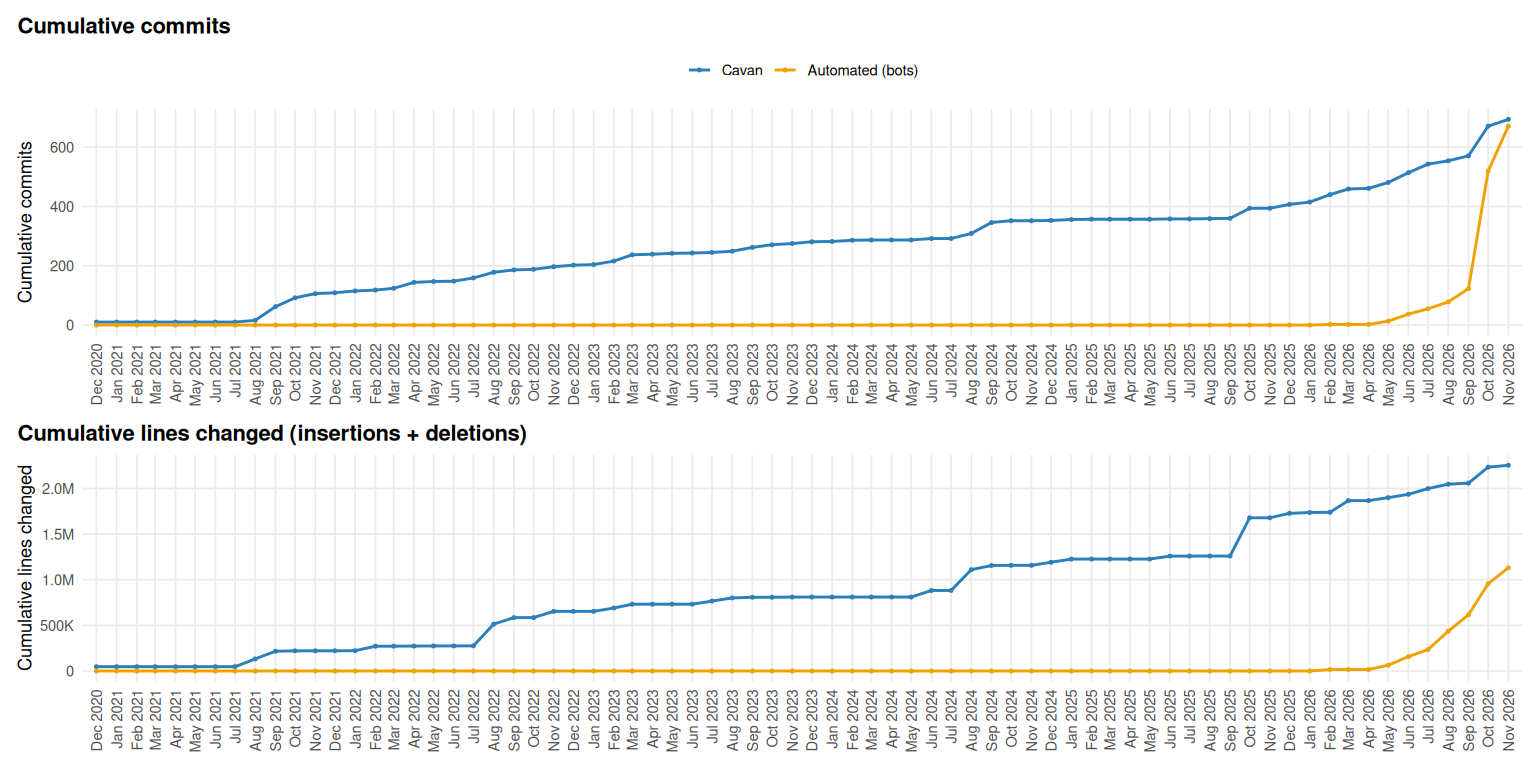
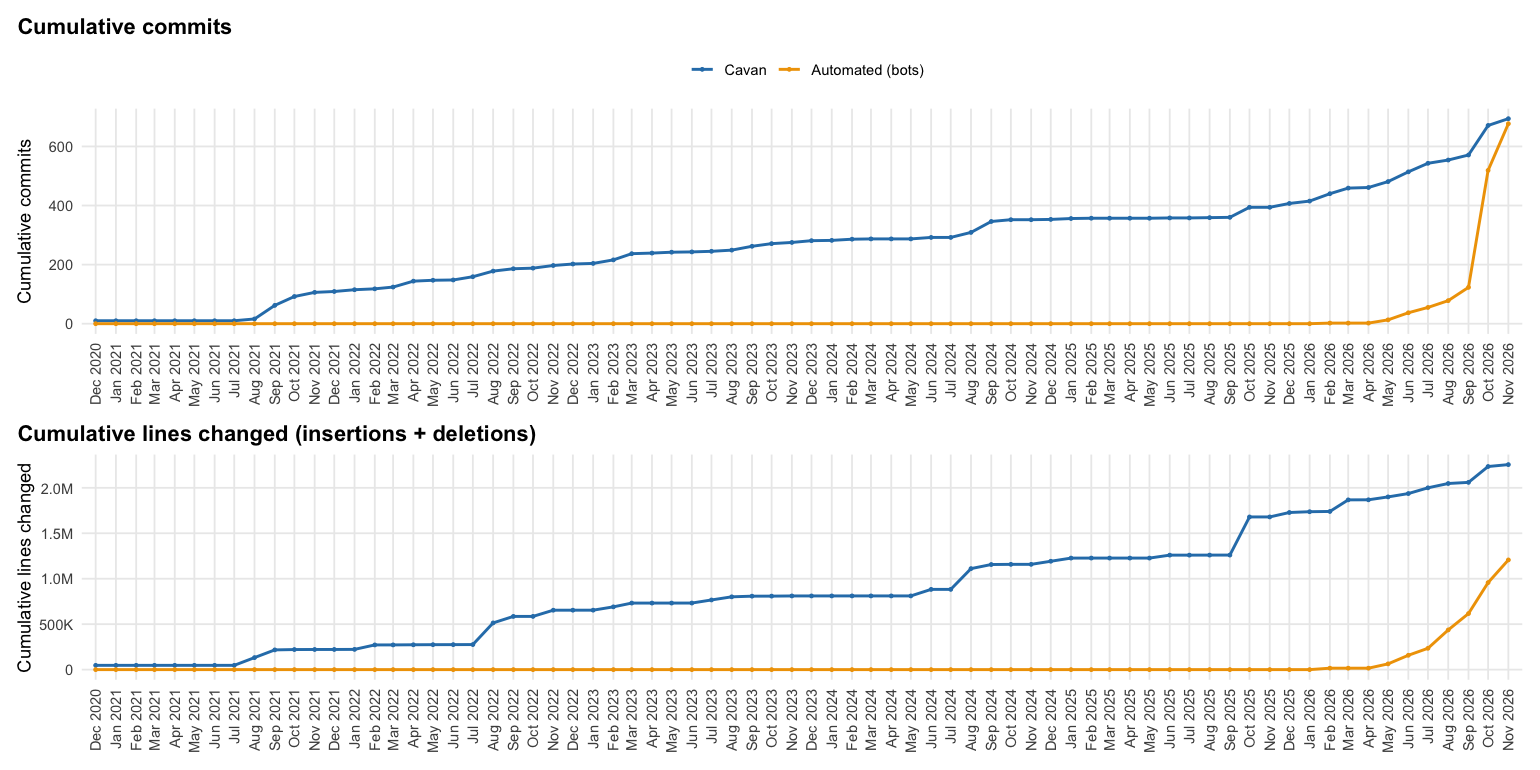
Bundle repo hygiene quick wins
Fix FIPS zero padding in hud_fmr_data.R: sprintf("%05s") pads with
spaces on Linux, so the follow-up str_pad was a no-op and single-digit
state FIPS codes broke joins. Pin crate-ci/typos to a release instead of
master. Add Dependabot npm coverage for tools/tohs-apps-script. Keep
root .dotx/.xlsx files out of the rendered site. Document
personalized-email-test.yml in the README, which was the only workflow
missing from it.

diff --git a/README.md b/README.md
@@ -222,6 +222,9 @@ run instead of landing on `main`.
 - `typos.yml` – on-PR spell check.
 - `pr-smoke.yml` – on-PR fast render of only the changed Rmds.
 - `test.yml` – R test suite (`scripts/run_tests.R`) on PRs and pushes.
+- `personalized-email-test.yml` – dry run of the personalized email
+  script on PRs that touch it; a manual dispatch with `send_email` on
+  sends one real test email.
 
 ### Side apps
 
@@ -236,7 +239,8 @@ run instead of landing on `main`.
 
 ### Repo hygiene
 
-- `.github/dependabot.yml` – weekly bump of pinned GitHub Actions.
+- `.github/dependabot.yml` – weekly bump of pinned GitHub Actions and
+  the npm deps for movie-ranker and the TOHS Apps Script.
 - `dependabot-automerge.yml` – squash-merges minor/patch Dependabot PRs
   once all other checks pass.
 - `labeler.yml` – auto-label PRs by changed paths.
@@ -254,8 +258,8 @@ above. Regenerated each time `README.Rmd` is knit.
 
 <img src="images/readme/commit-activity-cumulative-1.png" alt="Two cumulative line charts showing total commits and total lines changed (insertions + deletions) over time, split by Cavan's own commits vs. scheduled-bot commits."  />
 
-*1,365 commits from Dec 2020 to Nov 2026 (694 by me, 671 by scheduled
-bots), touching 3,386,866 lines in total.*
+*1,371 commits from Dec 2020 to Nov 2026 (694 by me, 677 by scheduled
+bots), touching 3,462,325 lines in total.*
 
 ## Setup and Local Development
 
